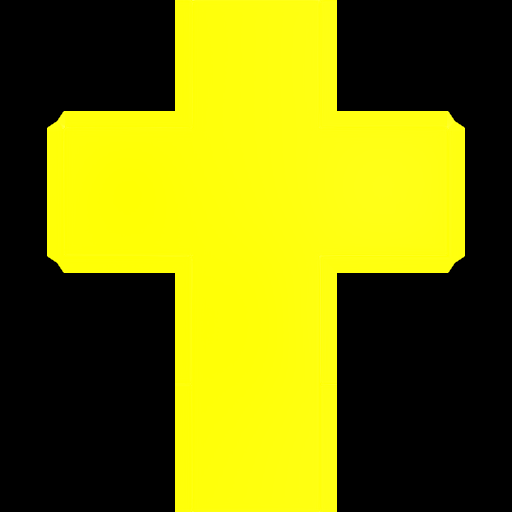
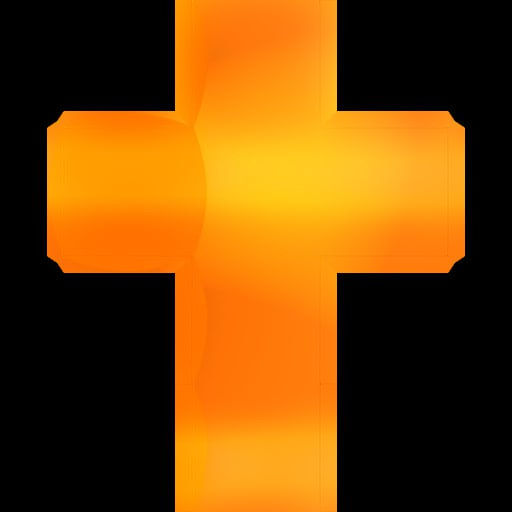
feat/new-sun

diff --git a/src/components/.welcome/welcome.jsx b/src/components/.welcome/welcome.jsx
@@ -7,6 +7,7 @@ import {OrbitControls, Sky} from "@react-three/drei";
 import biglogo from "../../assets/biglogo.svg";
 import WaterSurfaceComplex from "../../WaterSurface/WaterSurfaceComplex.tsx";
 import FluidFX from "../../WaterSurface/InteractiveFX/FluidFX.tsx";
+import {MeshStandardMaterial} from "three";
 export default function Welcome() {
     function Scene() {
         const gltf = useLoader(GLTFLoader, '/site2.gltf');
@@ -45,12 +46,11 @@ export default function Welcome() {
                 <primitive object={gltf.scene}/>
                 <EffectComposer>
                     <Bloom
-                        intensity={0.5} // Интенсивность свечения
-                        kernelSize={2} // Размер ядра свечения для более мягкого эффекта
-                        luminanceThreshold={0.1}
-                        luminanceSmoothing={2}
-                        height={100}
-
+                        intensity={3} // Интенсивность свечения
+                        kernelSize={1} // Размер ядра свечения для более мягкого эффекта
+                        luminanceThreshold={0}
+                        luminanceSmoothing={0.75}
+                        height={300}
                     />
                 </EffectComposer>
             </>
